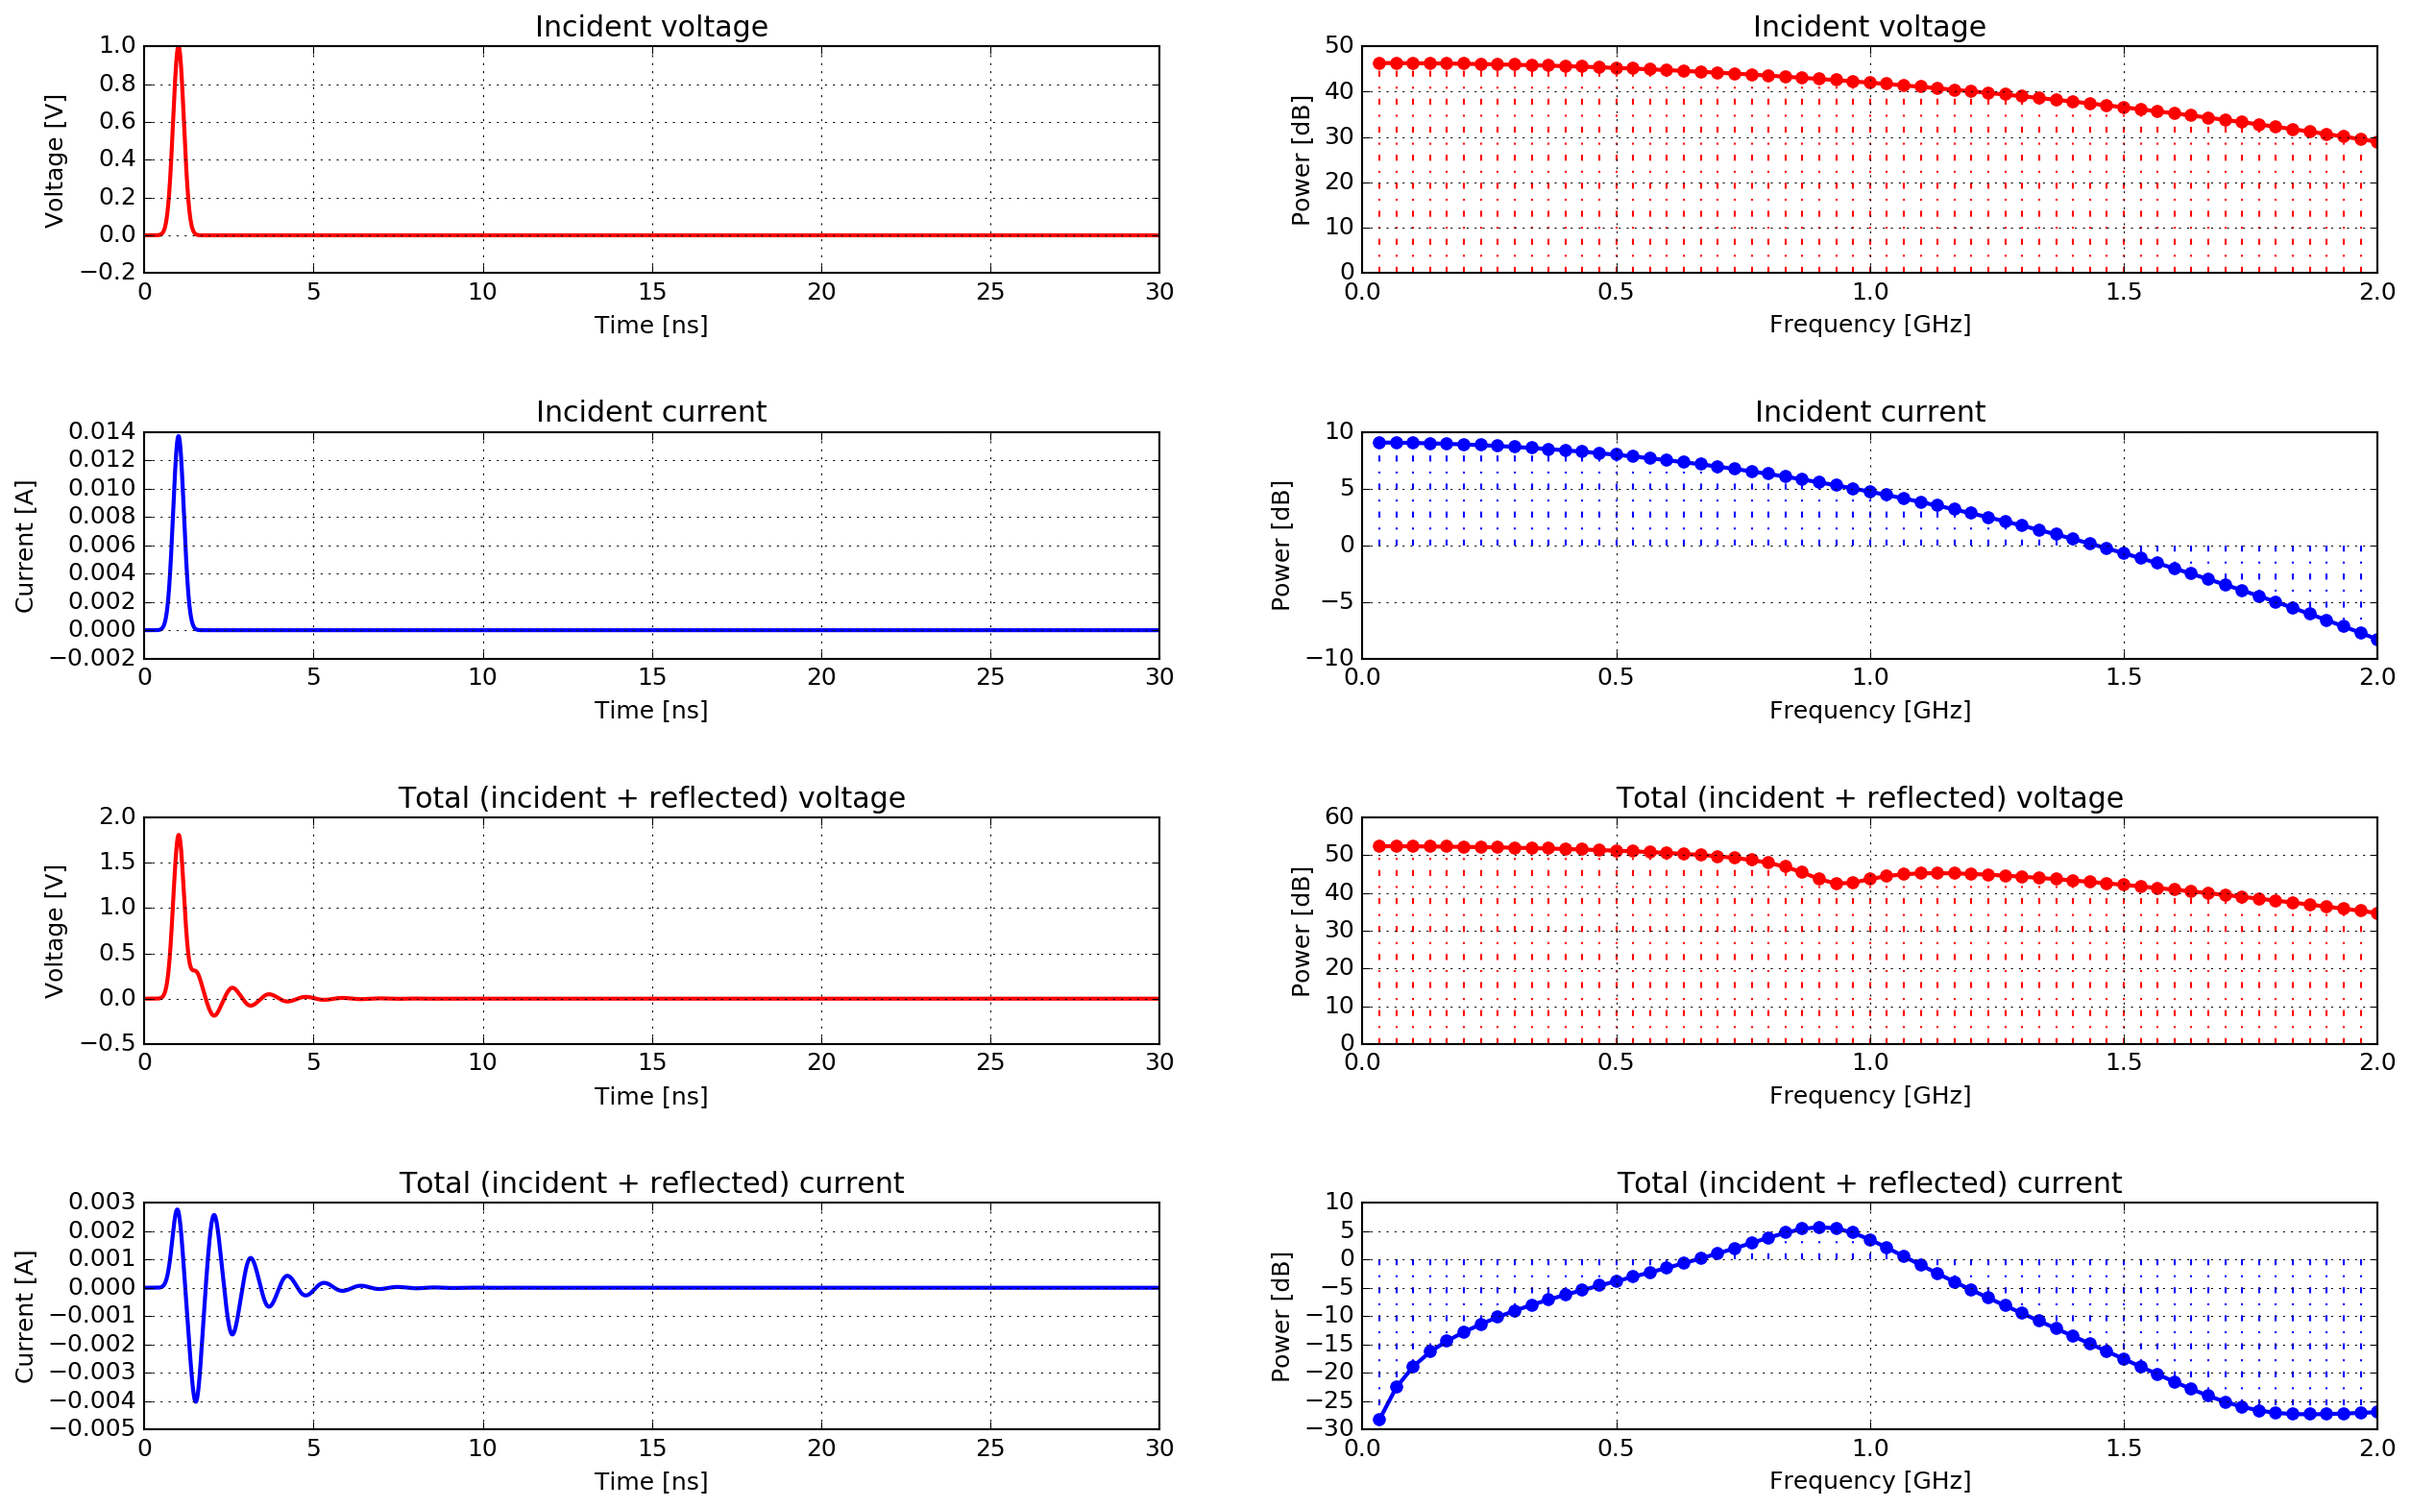
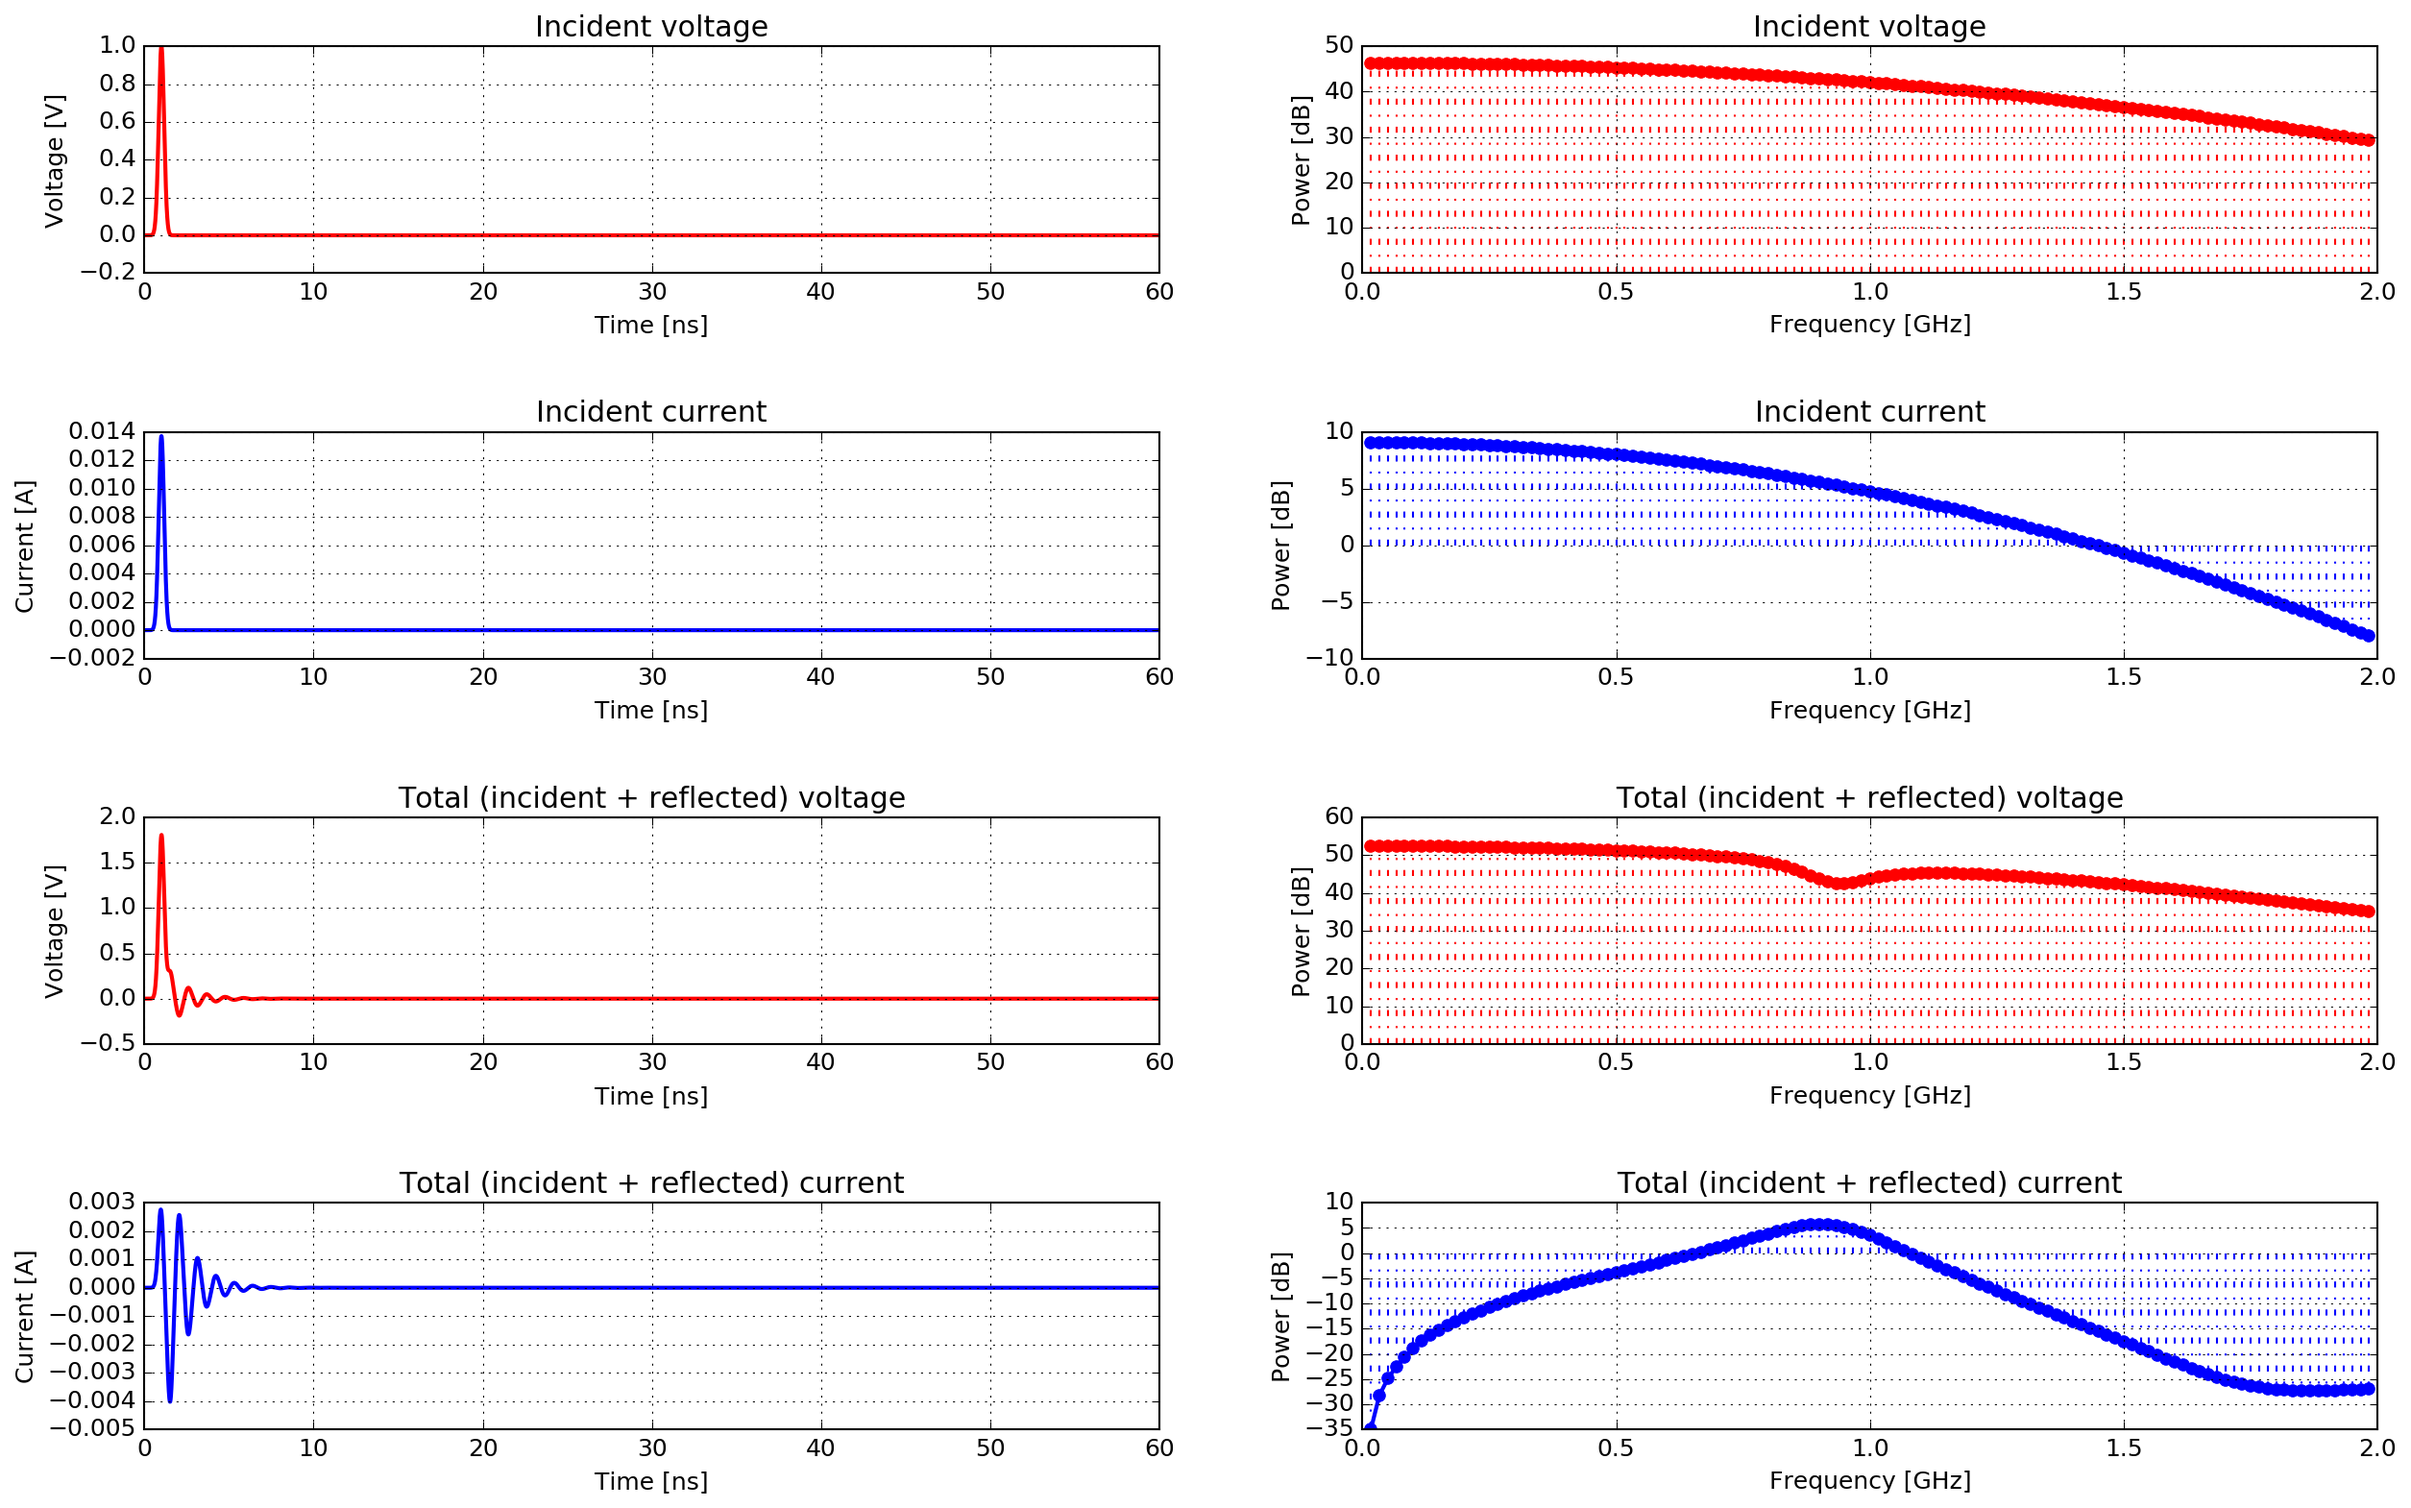
Updated example on wire dipole.

diff --git a/docs/source/examples_antennas.rst b/docs/source/examples_antennas.rst
@@ -17,7 +17,7 @@ This example demonstrates a model of a half-wavelength wire dipole antenna in fr
     :language: none
     :linenos:
 
-The wire is modelled using the ``#edge`` command which specifies properties of the edge of the Yee cell. The antenna is fed using the ``#transmission_line`` command. The one-dimensional transmission line model virtually attaches to the dipole at the gap between the arms. The antenna has an input impedance (:math:`Z_0`) of 73 Ohms specified in the ``#transmission_line`` command, and uses a Gaussian waveform with a centre frequency of 1GHz. A time window of 30ns is used: firstly, to give enough time for the response to settle to a steady state; and secondly, to allow a reasonable (33MHz) spacing for the frequency bins when calculating FFTs, as :math:`df=1/T` where :math:`df' is the frequency bin spacing and :math:`T' is the time window.
+The wire is modelled using the ``#edge`` command which specifies properties of the edge of the Yee cell. The antenna is fed using the ``#transmission_line`` command. The one-dimensional transmission line model virtually attaches to the dipole at the gap between the arms. The antenna has an input impedance (:math:`Z_0`) of 73 Ohms specified in the ``#transmission_line`` command, and uses a Gaussian waveform with a centre frequency of 1GHz. A time window of 60ns is used: firstly, to give enough time for the response to settle to a steady state; and secondly, to allow a reasonable (17MHz) spacing for the frequency bins when calculating FFTs, as :math:`\Delta f=1/T` where :math:`\Delta f' is the frequency bin spacing and :math:`T' is the time window.
 
 Time histories of voltage and current values in the transmission line are saved to the output file. These are documented in the :ref:`output file section <output>`. These parameters are useful for calculating characteristics of the antenna such as the input impedance or S-parameters. gprMax includes a Python module (in the ``tools`` package) to help you view the input impedance and admittance and s11 parameter from an antenna model fed using a transmission line. Details of how to use this module is given in the :ref:`tools section <plotting>`.
 
@@ -29,14 +29,14 @@ Results
 .. figure:: images/antenna_wire_dipole_fs_tl_params.png
     :width: 600px
 
-    Time and frequency domain plots of the incident and total (incident + reflected) voltages and currents in the transmission line.
+    Time and frequency domain plots of the incident and total (incident + reflected) voltages and currents in the transmission line (:math:`\Delta f = 17~MHz`).
 
 .. _antenna_wire_dipole_fs_ant_params:
 
 .. figure:: images/antenna_wire_dipole_fs_ant_params.png
     :width: 600px
 
-    Input admittance and impedance (resistance and reactance) and s11 parameter values of the antenna.
+    Input admittance and impedance (resistance and reactance) and s11 parameter values of the antenna (:math:`\Delta f = 17~MHz`).
 
 .. _antenna_wire_dipole_fs_ant_params_detail:
 
@@ -46,6 +46,15 @@ Results
     Detailed view of input admittance and impedance (resistance and reactance) and s11 parameter values of the antenna.
 
 :numref:`antenna_wire_dipole_fs_tl_params` shows time histories and frequency spectra of the incident and total (incident + reflected) voltages and currents in the transmission line. :numref:`antenna_wire_dipole_fs_ant_params` shows the input admittance and impedance (resistance and reactance), and s11 parameter of the half-wavelength wire dipole. :numref:`antenna_wire_dipole_fs_ant_params_detail` shows a more detailed view of these parameters. The s11 parameter shows that the first resonance of the antenna is at 933MHz. Depending on the radius of the wire, the length of the dipole for first resonance is about :math:`l=0.47\lambda` to :math:`0.48\lambda`. The thinner the wire the closer the resonance is to :math:`0.48\lambda` [BAL2005]_. In this case, with a first resonance of 933MHz and a length of 150mm, :math:`l/\lambda=0.47`. The input impedance is :math:`z_{in} = 71 - j16~\Omega`. If :math:`l/\lambda=0.5` then the theoretical input impedance would be :math:`z_{in} = 73 + j42.5~\Omega`. The reactive (imaginery) part associated with the input impedance of a dipole is a function of its length.
+
+:numref:`antenna_wire_dipole_fs_ant_params_detail_1p4MHz` demonstrates the increased frequency resolution (:math:`\Delta f = 1.4~MHz`) when an even longer time window (700ns) is used.
+
+.. _antenna_wire_dipole_fs_ant_params_detail_1p4MHz:
+
+.. figure:: images/antenna_wire_dipole_fs_ant_params_detail_1p4MHz.png
+    :width: 600px
+
+    Detailed view of input admittance and impedance (resistance and reactance) and s11 parameter values of the antenna (:math:`\Delta f = 1.4~MHz`)
 
 
 Bowtie antenna model
